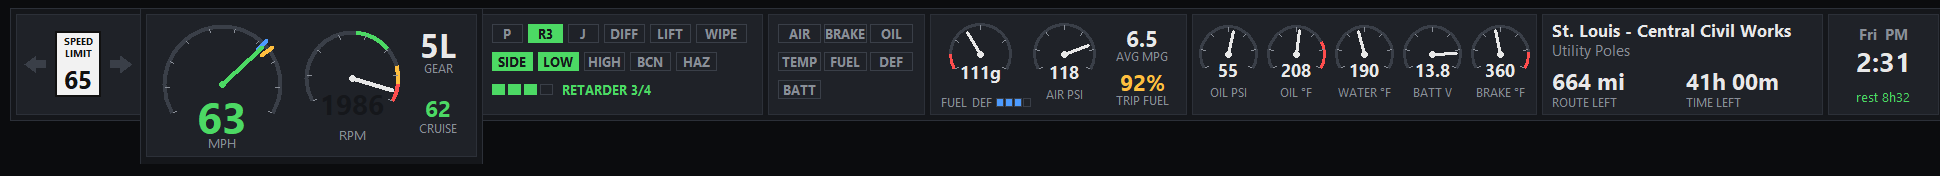
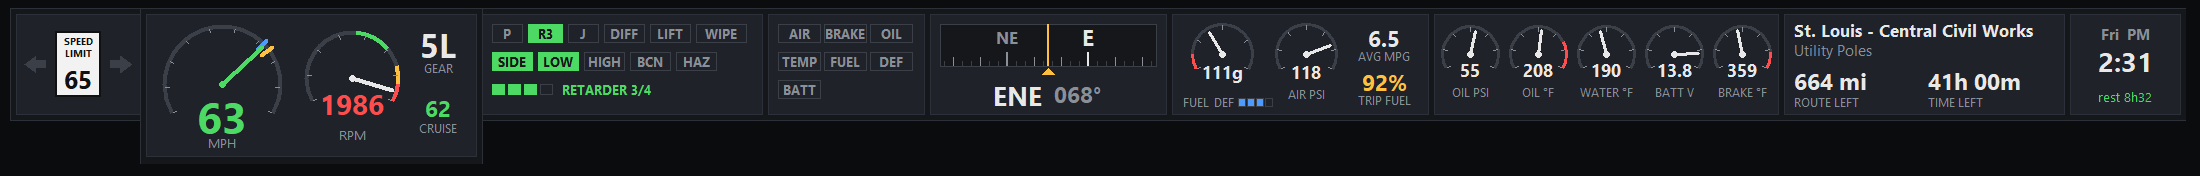
Add compass tape
New section between the warning lights and the fuel gauges: a scrolling
compass tape with the heading under a centre mark, plus 16-point
direction and degrees. Reads the truck's heading from the telemetry's
world-placement zone.

Changed region(s): [[0.0, 0.1136, 0.9278, 0.9091], [0.9278, 0.0284, 1.0, 0.6534], [0.9897, 0.6818, 1.0, 0.7102]]

diff --git a/telemetry.py b/telemetry.py
@@ -81,8 +81,13 @@ class Telemetry(C.Structure):
         ("trailerLiftAxle", C.c_bool), ("trailerLiftAxleIndicator", C.c_bool),
         ("jobDeliveredAutoparkUsed", C.c_bool), ("jobDeliveredAutoloadUsed", C.c_bool),
         ("_buffer_b", C.c_char * 25),
-        # zones 6-8 @1640 (fvector, fplacement, dplacement) - not used
-        ("_z6_8", C.c_char * (2300 - 1640)),
+        # zones 6-7 @1640 (fvector, fplacement) - not used
+        ("_z6_7", C.c_char * (2200 - 1640)),
+        # zone 8 @2200 - truck world placement. heading is 0..1, counter-clockwise
+        # from north (0.25 = west), so compass bearing = (1 - heading) * 360
+        ("coordinateX", C.c_double), ("coordinateY", C.c_double), ("coordinateZ", C.c_double),
+        ("heading", C.c_double), ("pitch", C.c_double), ("roll", C.c_double),
+        ("_buffer_dp", C.c_char * 52),
         # zone 9 @2300 - strings
         ("truckBrandId", C.c_char * S), ("truckBrand", C.c_char * S), ("truckId", C.c_char * S),
         ("truckName", C.c_char * S), ("cargoId", C.c_char * S), ("cargo", C.c_char * S),
@@ -106,7 +111,7 @@ class Telemetry(C.Structure):
 
 # The header marks where every zone starts; if any of these fail, the struct above is wrong.
 _ZONES = {"plugin_revision": 40, "restStop": 500, "scale": 700, "speed": 948,
-          "_cfg_wheels_b": 1500, "parkBrake": 1566, "_z6_8": 1640, "truckBrandId": 2300,
+          "_cfg_wheels_b": 1500, "parkBrake": 1566, "_z6_7": 1640, "coordinateX": 2200, "truckBrandId": 2300,
           "jobIncome": 4000, "_z11": 4200, "onJob": 4300}
 for _name, _off in _ZONES.items():
     assert getattr(Telemetry, _name).offset == _off, (_name, getattr(Telemetry, _name).offset, _off)

diff --git a/README.md b/README.md
@@ -26,6 +26,7 @@ From left to right. Every section can be switched off.
 | **Speed** | Big speedometer, tachometer, gear, cruise set speed. This panel hangs slightly below the bar. |
 | **Status lights** | Park brake, retarder (with its current step), engine/Jake brake, diff lock, lift axle, wipers, side/low/high beams, beacon, hazards, plus a row of pips counting retarder steps |
 | **Warnings** | Low air, emergency brake, oil pressure, coolant temperature, low fuel, low DEF/AdBlue, battery |
+| **Compass** | A scrolling compass tape with the direction you're facing under the centre mark, plus the 16-point heading and degrees (e.g. `ENE 068°`) |
 | **Fuel** | Fuel gauge with reserve zone, DEF/AdBlue level, air pressure, average economy, and **trip fuel**: how much of the fuel on board the rest of the job needs |
 | **Gauges** | Oil pressure, oil temperature, coolant temperature, battery voltage, brake temperature |
 | **Job** | Destination, cargo, distance and time left |
